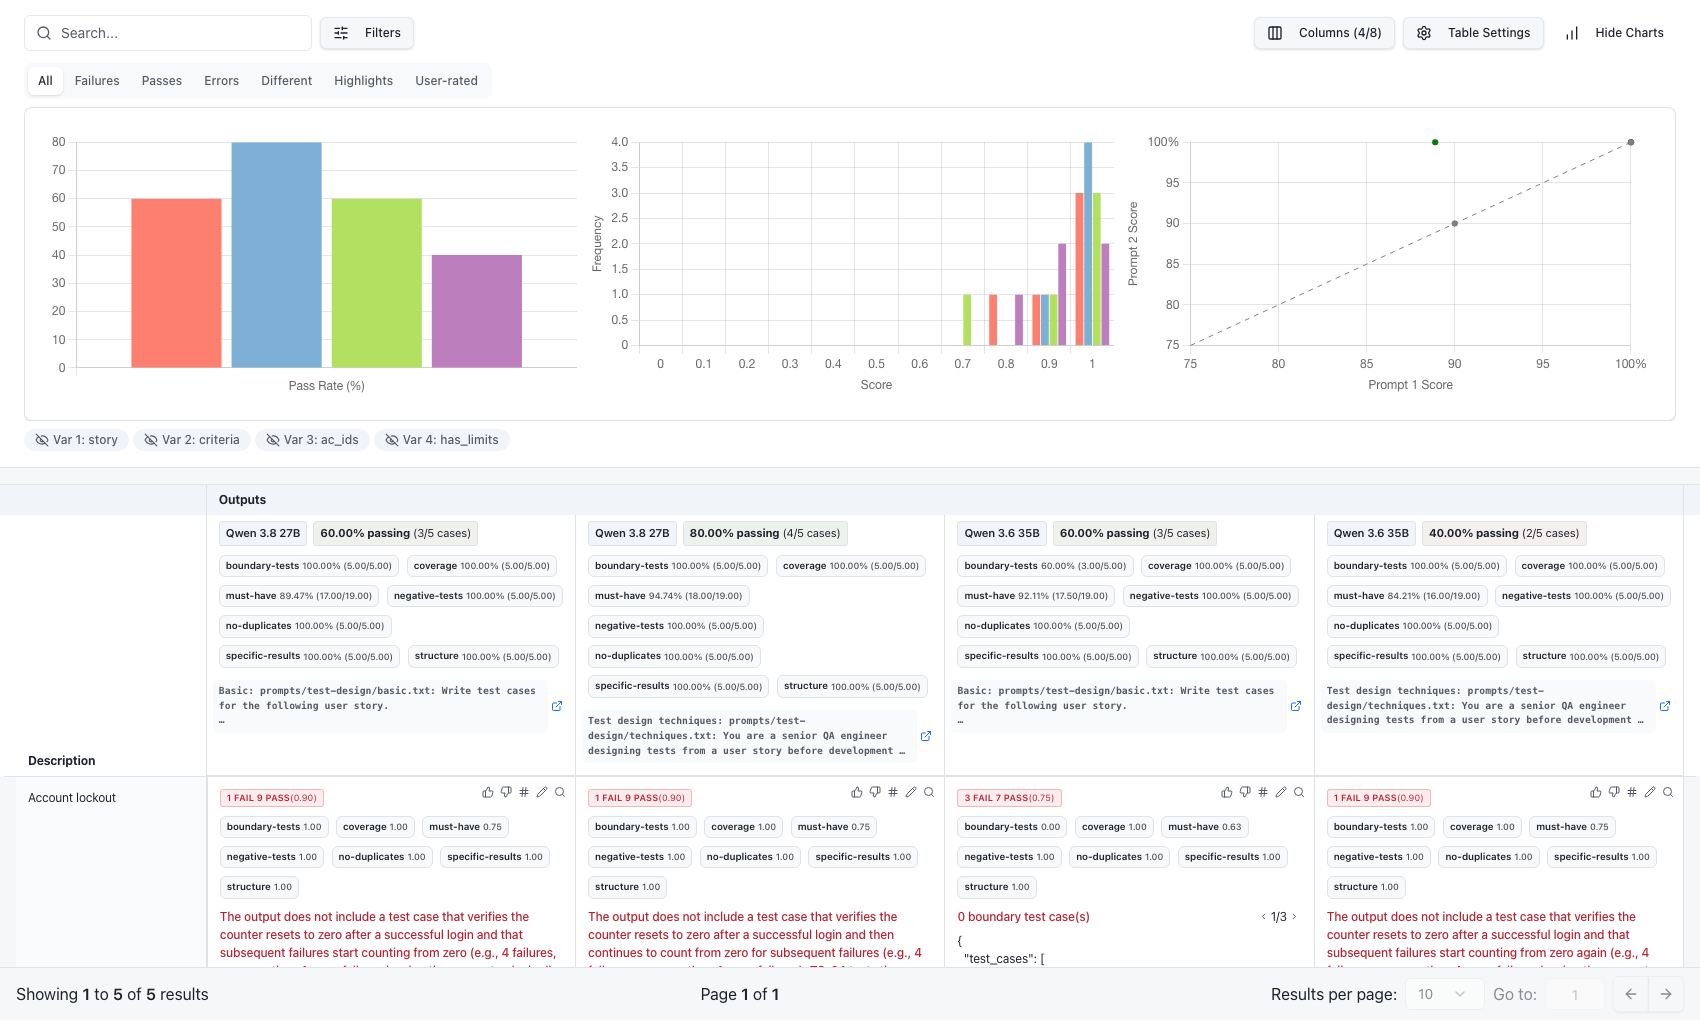
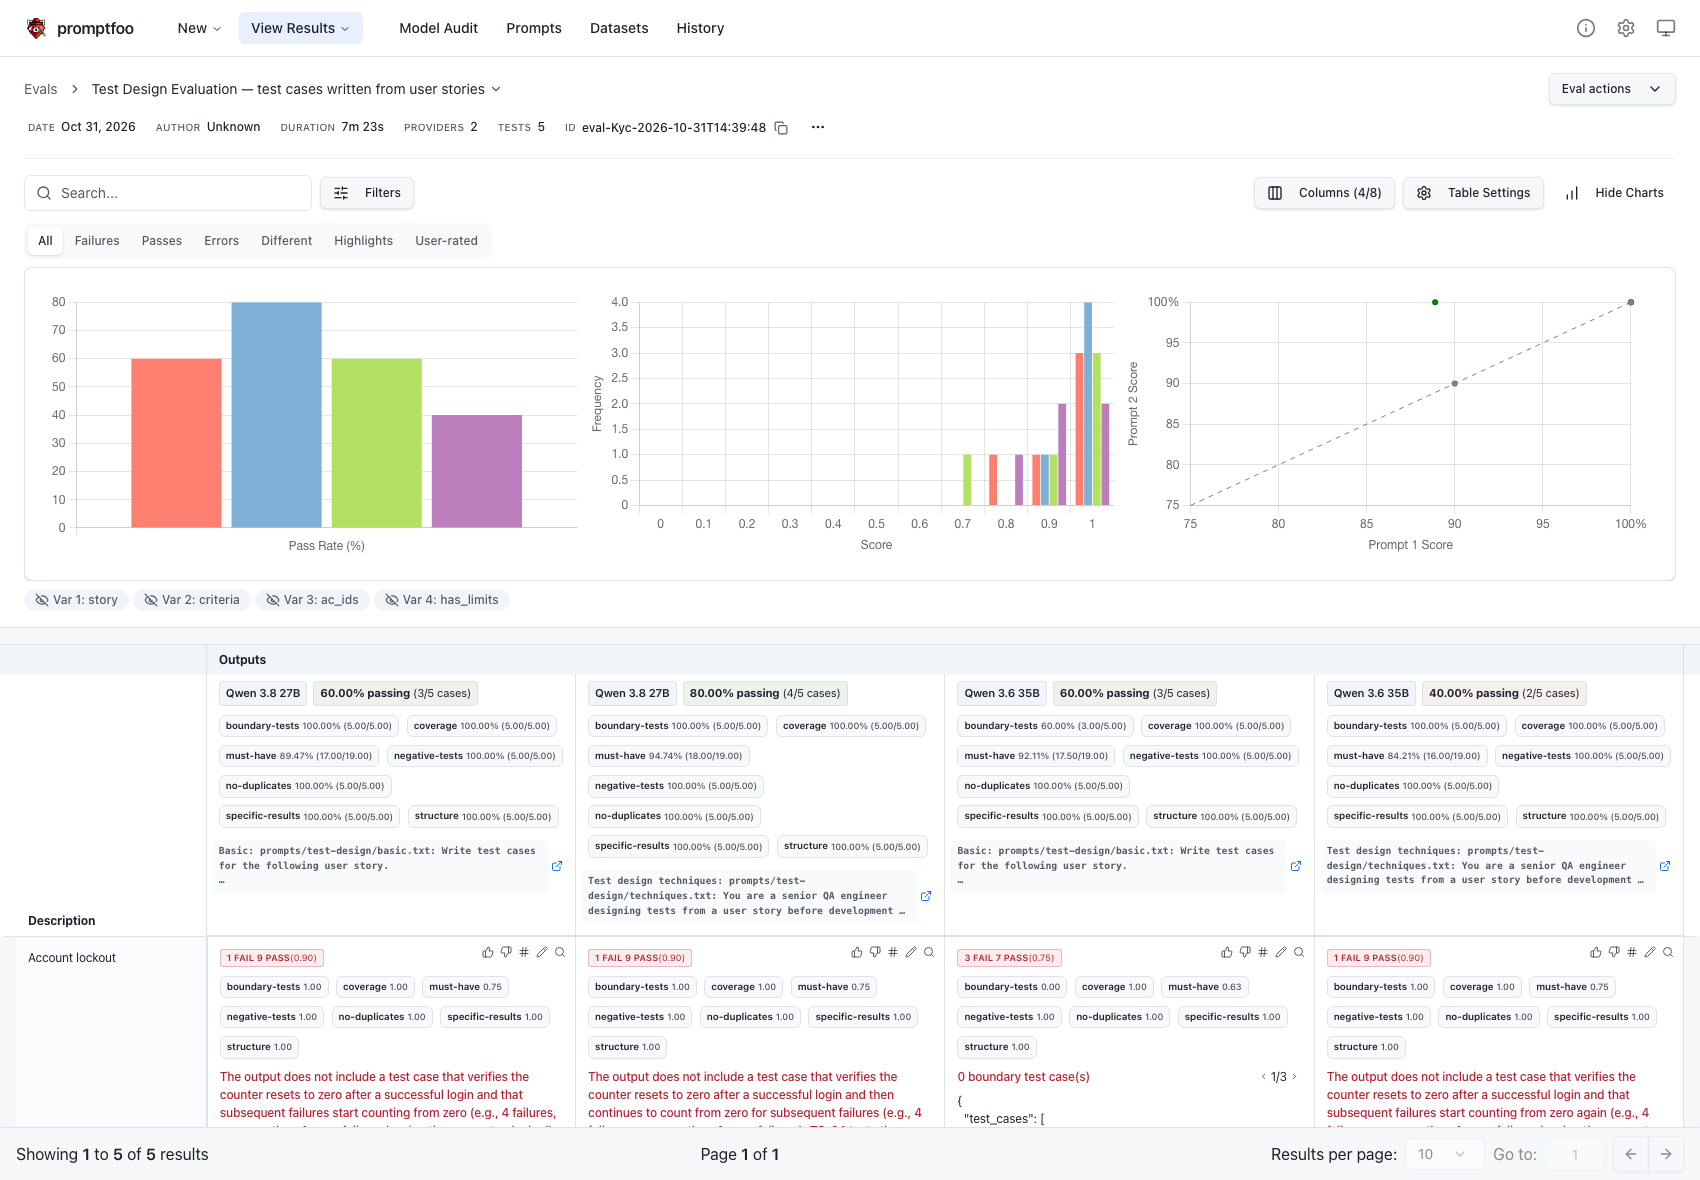
docs: retain viewer headers while keeping README date-free

diff --git a/docs/development.md b/docs/development.md
@@ -126,7 +126,7 @@ The README previews come from the owner's later `npm run eval:test-design` and `
 | `outputs/test-design-results.json` | 2026-10-31 14:39:48 | 12/20 passed, 8 assertion failures, 0 errors; 5 cached generation results | Pass-rate, score-distribution and prompt-comparison graphs plus all four model/prompt columns |
 | `outputs/results.json` | 2026-10-31 14:51:48 | 135/135 passed, 0 failures, 0 errors | All three prompt columns and multilingual output examples |
 
-Promptfoo suppresses charts when every score is the same binary edge value, so the translation preview deliberately uses the results table. Screenshots focus on the report content, excluding the date/ID metadata header. They were captured from the actual viewer and visually inspected; no scores, prompts or evaluation data were modified. The October 19 screenshot is superseded by these two previews. Historical benchmark tables and interpretation text remain unchanged. Only the previews are committed; raw exports and the isolated viewer database stay local. No evaluation rerun or `npm run publish` was needed.
+Promptfoo suppresses charts when every score is the same binary edge value, so the translation preview deliberately uses the results table. Screenshots retain the viewer header, including its run date and ID; the README captions omit dates. They were captured from the actual viewer and visually inspected; no scores, prompts or evaluation data were modified. The October 19 screenshot is superseded by these two previews. Historical benchmark tables and interpretation text remain unchanged. Only the previews are committed; raw exports and the isolated viewer database stay local. No evaluation rerun or `npm run publish` was needed.
 
 ### Hosted verification and remaining review
 
